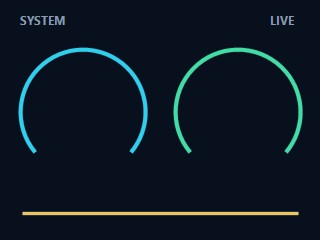
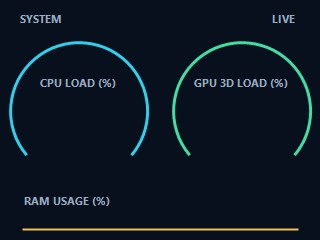
Fit live values within the LCD dashboard frames
Bake small labels and units into three graphic backgrounds. Send short live numbers, compute anchors from digit count, and add persistent live centering calibration controls. Embed all backgrounds and identify the running build as v17. Physical LCD alignment remains pending confirmation.

diff --git a/Launcher.cs b/Launcher.cs
@@ -35,6 +35,8 @@ internal static class Launcher
             Extract("Ryujin-Storage.ps1", folder);
             Extract("Ryujin-Sensors.ps1", folder);
             Extract("Ryujin-Dashboard.jpg", folder);
+            Extract("Ryujin-Dashboard-temperature.jpg", folder);
+            Extract("Ryujin-Dashboard-mixed.jpg", folder);
             string powerShell = Path.Combine(Environment.SystemDirectory, @"WindowsPowerShell\v1.0\powershell.exe");
             var start = new ProcessStartInfo(powerShell)
             {
@@ -73,7 +75,7 @@ internal static class Launcher
         }
         finally
         {
-            foreach (string name in new[] { "Ryujin-Player.ps1", "Ryujin-Usb.ps1", "Ryujin-Storage.ps1", "Ryujin-Sensors.ps1", "Ryujin-Dashboard.jpg" })
+            foreach (string name in new[] { "Ryujin-Player.ps1", "Ryujin-Usb.ps1", "Ryujin-Storage.ps1", "Ryujin-Sensors.ps1", "Ryujin-Dashboard.jpg", "Ryujin-Dashboard-temperature.jpg", "Ryujin-Dashboard-mixed.jpg" })
             {
                 try { File.Delete(Path.Combine(folder, name)); } catch (IOException) { } catch (UnauthorizedAccessException) { }
             }

diff --git a/README.md b/README.md
@@ -42,9 +42,11 @@ Use **Add system monitor** to insert a live monitoring page into the playlist, s
 - GPU 3D usage is read from available Windows performance counters.
 - CPU/GPU temperatures require a running LibreHardwareMonitor or OpenHardwareMonitor WMI provider. Unavailable readings show **N/A**. Temperature entries show the maximum matching CPU/GPU sensor reading.
 
-The default **Graphic monitor background with live values** option uses colored static frames and live text. It uploads a small reusable JPEG background to one JPG slot. Sensor updates use the LCD text overlay. The colored rings are decorative frames. A plain three-line monitoring mode is also available by disabling this option.
+The default **Graphic monitor background with live values** option uses colored static frames and live numbers. Small labels and units are drawn into the JPEG to accommodate the LCD's fixed text size. Sensor updates replace only the short numeric values. Each measurement preset has its own small reusable JPEG background and uses one JPG slot when first loaded. The colored rings are decorative frames. A plain three-line monitoring mode is also available by disabling this option.
 
 Updates are scheduled approximately every two seconds after the previous sensor/LCD operation finishes. The application must remain running for live updates.
+
+Number positions account for digit count. If the LCD font spacing needs calibration, adjust **LCD digit width** and the **CPU position / GPU position** sliders while watching the display. Changes apply on the next sensor update and are saved locally. The window title identifies this development build as v17.
 
 ## Keep the playlist after restarting Windows
 
